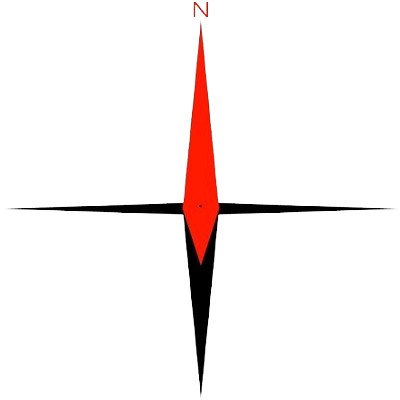
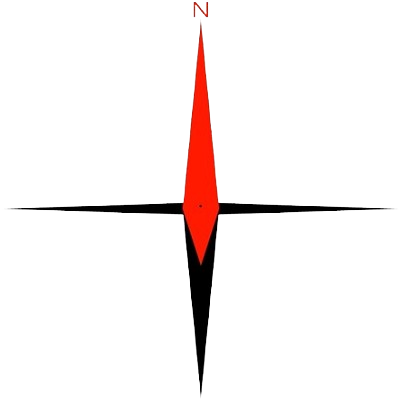
second commit

Changed region(s): [[0.03, 0.3, 0.99, 0.99], [0.48, 0.06, 0.54, 0.45], [0.48, 0.0, 0.51, 0.03]]

diff --git a/compass_visualize_withPyQt5.py b/compass_visualize_withPyQt5.py
@@ -109,16 +109,16 @@ class CompassApp(QWidget):
 
         painter.drawPixmap(0, 0, self.compass_circle)
 
-        display_center = self.compass_circle.rect().center()
-        #circle_center = self.compass_circle.rect().center()
-        #needle_center = self.compass_needle.rect().center()
+        #display_center = self.compass_circle.rect().center()
+        circle_center = self.compass_circle.rect().center()
+        needle_center = self.compass_needle.rect().center()
 
         transform = QTransform()
-        #transform.translate(circle_center.x(), circle_center.y())
-        transform.translate(display_center.x(), display_center.y())
+        transform.translate(circle_center.x(), circle_center.y()-2)
+        #transform.translate(display_center.x(), display_center.y())
         transform.rotate(-self.direction)
-        #transform.translate(-needle_center.x(), -needle_center.y())
-        transform.translate(-self.compass_needle.width() / 2, -self.compass_needle.height() / 2)
+        transform.translate(-needle_center.x(), -needle_center.y())
+        #transform.translate(-self.compass_needle.width() / 2, -self.compass_needle.height() / 2)
 
         painter.setTransform(transform)
         painter.drawPixmap(0, 0, self.compass_needle)
